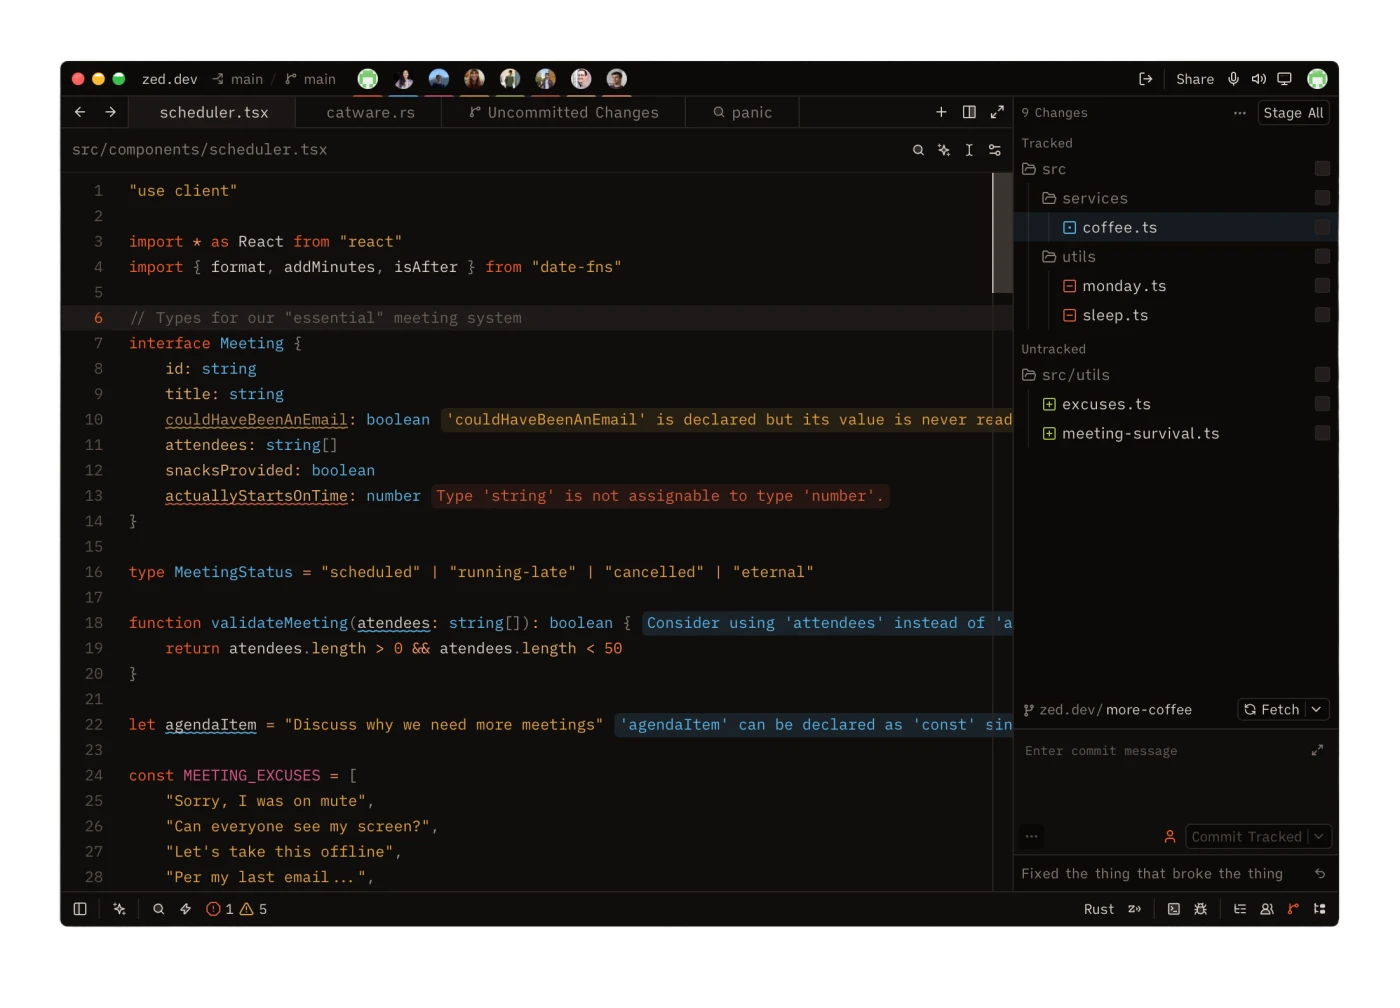
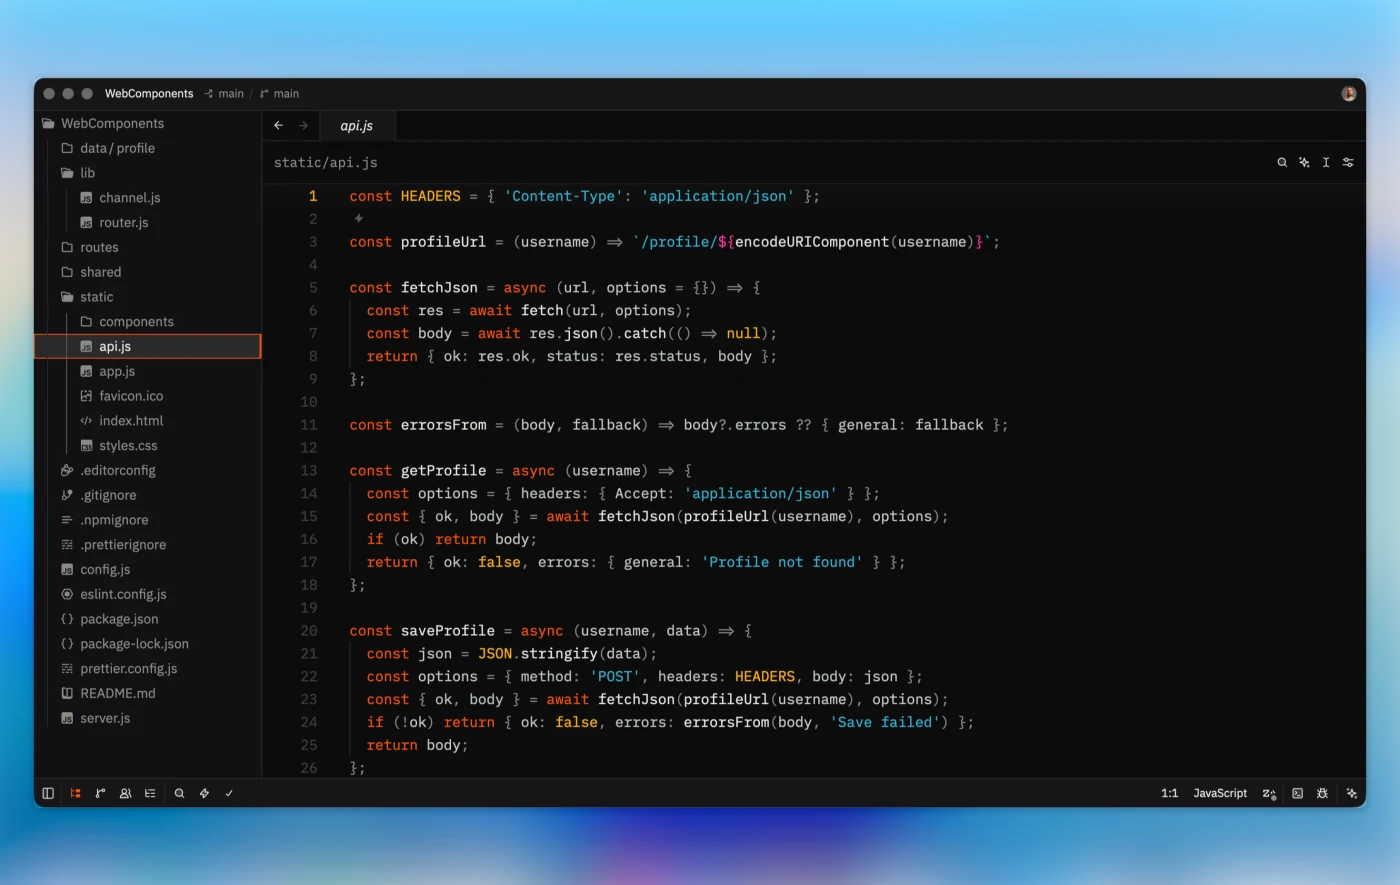
Update preview images and re-add hero preview

diff --git a/README.md b/README.md
@@ -12,6 +12,10 @@
 	A Zed theme inspired by the <a href="https://teenage.engineering/products/ep-133">EP&ndash;133 K.O. II</a> from Teenage Engineering.
 </p>
 
+<p align="center">
+	<img src="assets/preview.webp"/>
+</p>
+
 ## Previews
 
 <!-- Screenshots live in assets/ — see assets/README.md for the expected filenames & specs -->

diff --git a/assets/README.md b/assets/README.md
@@ -4,6 +4,7 @@ Screenshots referenced by the root `README.md`. Drop the files here with these e
 
 | File           | Theme            | Appearance |
 | -------------- | ---------------- | ---------- |
+| `preview.webp` | hero / banner    | any        |
 | `display.webp` | EP-133 Display   | dark       |
 | `chassis.webp` | EP-133 Chassis   | light      |
 